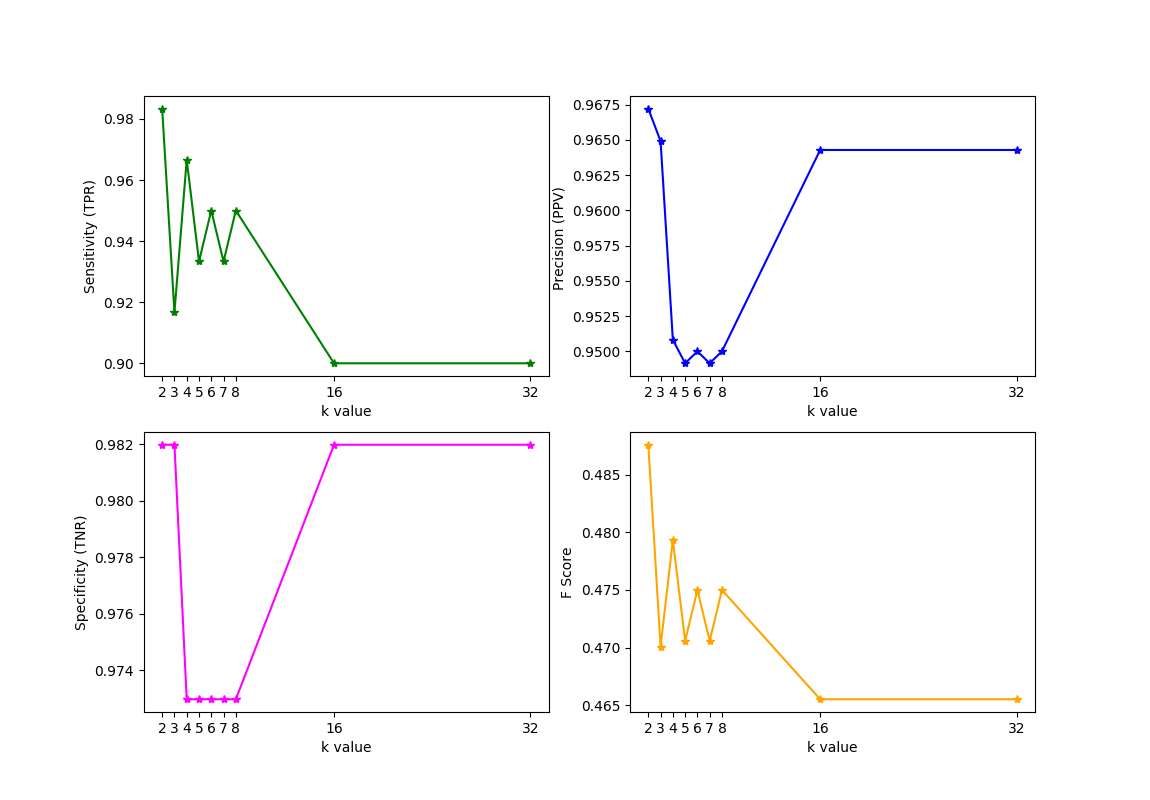
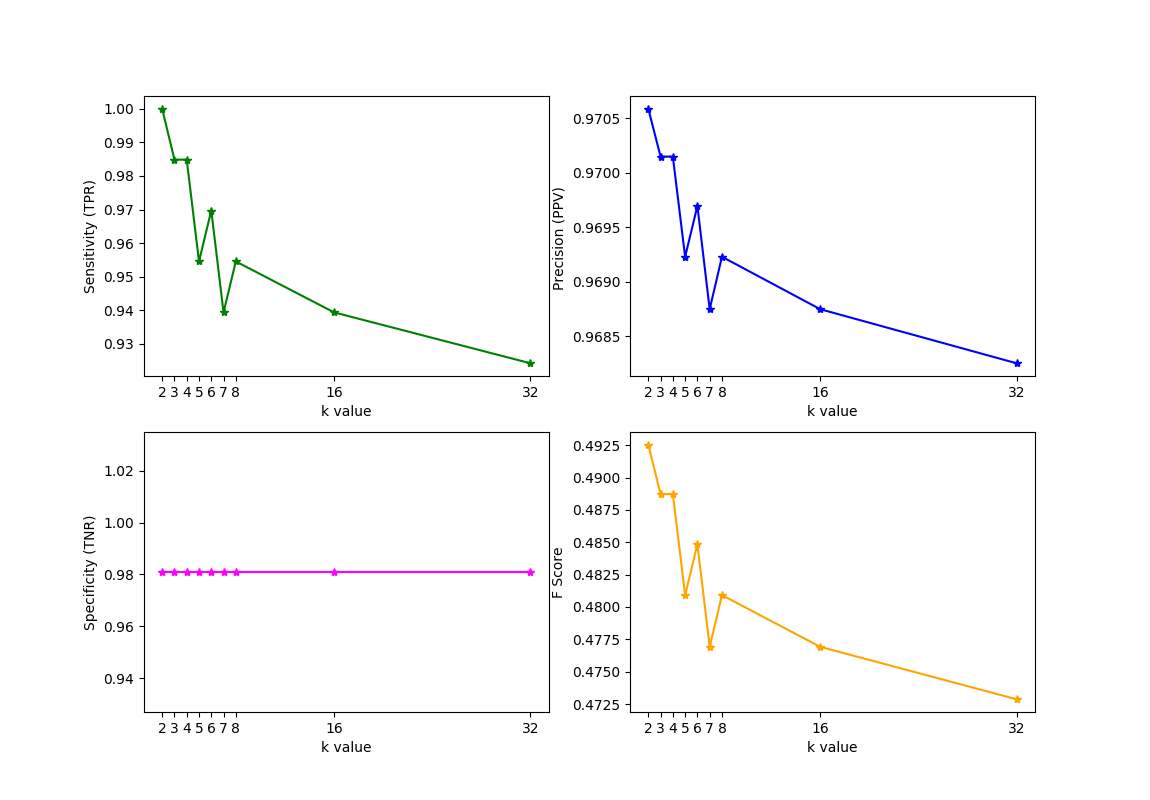
finished part 2

diff --git a/project3/knn-dt.py b/project3/knn-dt.py
@@ -36,12 +36,12 @@ class Data:
         # split data into training, validation and testing data
         # make sure that tum type arrays are 1-dimensional
         self.trainFeatures, self.testFeatures, self.trainLabels, self.testLabels = train_test_split(
-            self.features, self.labels, test_size=0.5, random_state=100)
+            self.features, self.labels, test_size=0.5, random_state=26)
         self.trainLabels = self.trainLabels.ravel()
         self.testLabels = self.testLabels.ravel()
 
         self.validFeatures, self.testFeatures, self.validLabels, self.testLabels = train_test_split(
-            self.testFeatures, self.testLabels, test_size=0.5, random_state=100)
+            self.testFeatures, self.testLabels, test_size=0.5, random_state=26)
         self.testLabels = self.testLabels.ravel()
         self.validLabels = self.validLabels.ravel()
 
@@ -179,19 +179,19 @@ def split(dataFeatures, dataLabels, index, value):
     for i, d in enumerate(dataFeatures):
         if int(d[index]) < value:
             lF.append(d)
-            lL.append(dataLabels[index])
+            lL.append(dataLabels[i])
         else:
             rF.append(d)
-            rL.append(dataLabels[index])
+            rL.append(dataLabels[i])
     return lF, rF, lL, rL
 
 
 def GenerateTree(trainFeatures, trainLabels, k, depth):
 
-    if NodeEntropy(impurityType, trainLabels) < k:
+    gain, attribute = SplitAttribute(trainFeatures, trainLabels)
+    if gain ==0 or NodeEntropy(impurityType, trainLabels) < k:
         return Leaf(trainLabels)
 
-    attribute = SplitAttribute(trainFeatures, trainLabels)
     leftF, rightF, leftL, rightL = split(trainFeatures, trainLabels, attribute[0], attribute[1])
 
     leftNode = GenerateTree(leftF, leftL, k, depth+1)
@@ -202,10 +202,10 @@ def GenerateTree(trainFeatures, trainLabels, k, depth):
 
 def GenerateTreeDepth(trainFeatures, trainLabels, k, depth):
 
-    if depth == k:
+    gain, attribute = SplitAttribute(trainFeatures, trainLabels)
+    if gain==0 or depth == k:
         return Leaf(trainLabels)
 
-    attribute = SplitAttribute(trainFeatures, trainLabels)
     leftF, rightF, leftL, rightL = split(trainFeatures, trainLabels, attribute[0], attribute[1])
     leftNode = GenerateTreeDepth(leftF, leftL, k, depth+1)
     rightNode = GenerateTreeDepth(rightF, rightL, k, depth+1)
@@ -214,15 +214,12 @@ def GenerateTreeDepth(trainFeatures, trainLabels, k, depth):
 
 
 def SplitAttribute(trainFeatures, trainLabels):
-    print("Split attribute")
     cur_ent = NodeEntropy(impurityType, trainLabels)
     gain = 0
-    bestf = [0,0]
+    bestf = [0, 0]
 
     for fIndex in range(len(trainFeatures[0])):
-        print("Index",  fIndex)
         attrVals = np.unique([dataPoint[fIndex] for dataPoint in trainFeatures])
-        print(attrVals)
         for val in attrVals:
             leftF, rightF, leftL, rightL = split(trainFeatures, trainLabels, fIndex, val)
 
@@ -235,7 +232,7 @@ def SplitAttribute(trainFeatures, trainLabels):
                 bestf = [fIndex, val]
 
 
-    return bestf
+    return gain, bestf
 
 
 def SplitEntropy(leftL, rightL, cur_ent):
@@ -265,7 +262,7 @@ def Predict(tree, testFeatures, testLabels):
                 confMatrix[1][0] += 1
 
     accuracy = (confMatrix[0][0] + confMatrix[1][1]) / (sum(map(sum, confMatrix)))
-    return accuracy
+    print(accuracy)
 
 
 def ClassifyWithTree(sample, node):
@@ -290,63 +287,63 @@ fscore = []
 
 K = [2, 3, 4, 5, 6, 7, 8, 16, 32]
 
-# # split training set into into training and validation
-#
-# for k in K:
-#     cMatrix, accuracy, TPR, PPV, TNR, FScore = kNN(k, d.trainFeatures, d.trainLabels, d.validFeatures, d.validLabels)
-#     print(cMatrix, accuracy, TPR, PPV, TNR, FScore)
-#     performance.append(accuracy)
-#     tpr.append(TPR)
-#     ppv.append(PPV)
-#     tnr.append(TNR)
-#     fscore.append(FScore)
-#
-# plt.figure(1)
-# plt.title('Accuracy vs. k')
-# plt.xlabel('k value')
-# plt.ylabel('Accuracy')
-# plt.xticks(K)
-# plt.plot(K, performance, color='purple', marker='*')
-# plt.savefig('images/accuracy.png')
-#
-# plt.figure(2,figsize=(11.5, 8))
-#
-# plt.subplot(221)
-# plt.xticks(K)
-# plt.plot(K, tpr, color='green', marker='*')
-# plt.ylabel('Sensitivity (TPR)')
-# plt.xlabel('k value')
-#
-# plt.subplot(222)
-# plt.xticks(K)
-# plt.plot(K, ppv, color='blue', marker='*')
-# plt.ylabel('Precision (PPV) ')
-# plt.xlabel('k value')
-#
-# plt.subplot(223)
-# plt.xticks(K)
-# plt.plot(K, tnr, color='magenta', marker='*')
-# plt.ylabel('Specificity (TNR)')
-# plt.xlabel('k value')
-#
-# plt.subplot(224)
-# plt.xticks(K)
-# plt.plot(K, fscore, color='orange', marker='*')
-# plt.ylabel('F Score')
-# plt.xlabel('k value')
-# plt.savefig('images/metrics.png')
-#
-# bestK = []
-# for i, p in enumerate(performance):
-#     if p == max(performance):
-#         bestK.append(K[i])
-#
-# print("Best K: ", bestK)
-#
-# # run kNN on best chosen K
-# for k in bestK:
-#     cMatrix, accuracy, TPR, PPV, TNR, FScore = kNN(k, d.trainFeatures, d.trainLabels, d.testFeatures, d.testLabels)
-#     print(cMatrix, accuracy, TPR, PPV, TNR, FScore)
+# split training set into into training and validation
+
+for k in K:
+    cMatrix, accuracy, TPR, PPV, TNR, FScore = kNN(k, d.trainFeatures, d.trainLabels, d.validFeatures, d.validLabels)
+    print(cMatrix, accuracy, TPR, PPV, TNR, FScore)
+    performance.append(accuracy)
+    tpr.append(TPR)
+    ppv.append(PPV)
+    tnr.append(TNR)
+    fscore.append(FScore)
+
+plt.figure(1)
+plt.title('Accuracy vs. k')
+plt.xlabel('k value')
+plt.ylabel('Accuracy')
+plt.xticks(K)
+plt.plot(K, performance, color='purple', marker='*')
+plt.savefig('images/accuracy.png')
+
+plt.figure(2,figsize=(11.5, 8))
+
+plt.subplot(221)
+plt.xticks(K)
+plt.plot(K, tpr, color='green', marker='*')
+plt.ylabel('Sensitivity (TPR)')
+plt.xlabel('k value')
+
+plt.subplot(222)
+plt.xticks(K)
+plt.plot(K, ppv, color='blue', marker='*')
+plt.ylabel('Precision (PPV) ')
+plt.xlabel('k value')
+
+plt.subplot(223)
+plt.xticks(K)
+plt.plot(K, tnr, color='magenta', marker='*')
+plt.ylabel('Specificity (TNR)')
+plt.xlabel('k value')
+
+plt.subplot(224)
+plt.xticks(K)
+plt.plot(K, fscore, color='orange', marker='*')
+plt.ylabel('F Score')
+plt.xlabel('k value')
+plt.savefig('images/metrics.png')
+
+bestK = []
+for i, p in enumerate(performance):
+    if p == max(performance):
+        bestK.append(K[i])
+
+print("Best K: ", bestK)
+
+# run kNN on best chosen K
+for k in bestK:
+    cMatrix, accuracy, TPR, PPV, TNR, FScore = kNN(k, d.trainFeatures, d.trainLabels, d.testFeatures, d.testLabels)
+    print(cMatrix, accuracy, TPR, PPV, TNR, FScore)
 
 impurityType = 0
 
